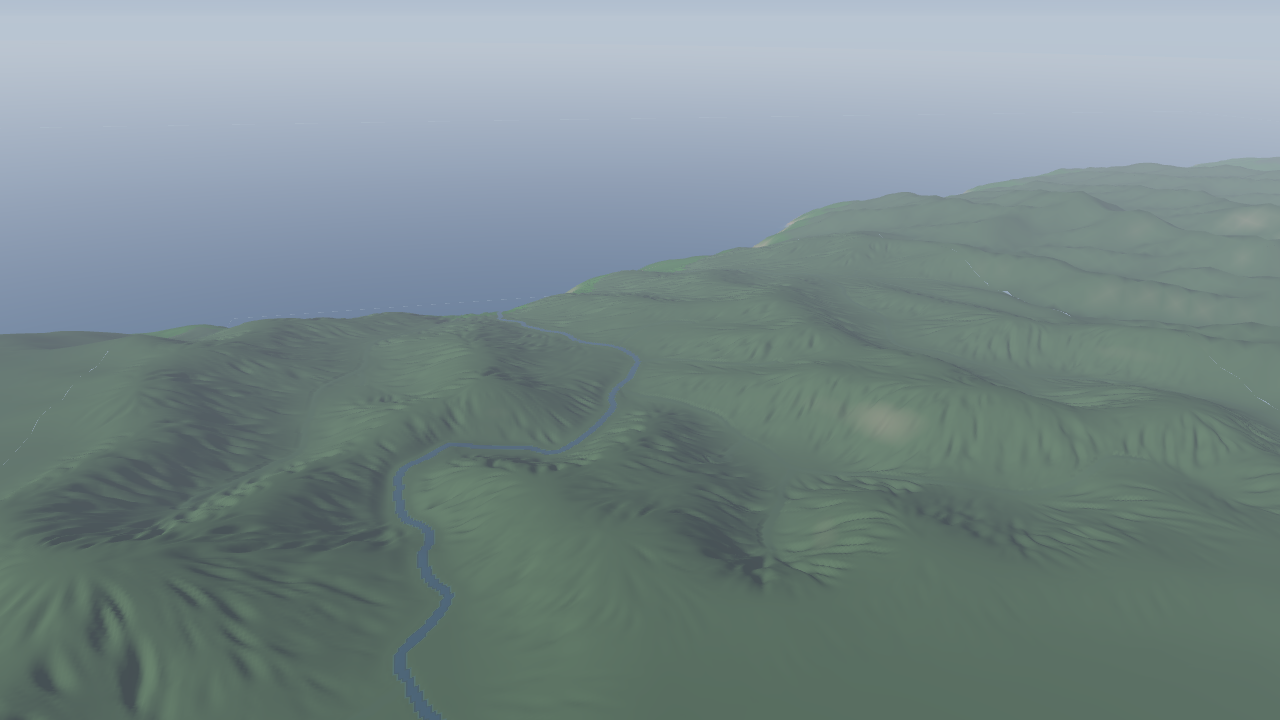
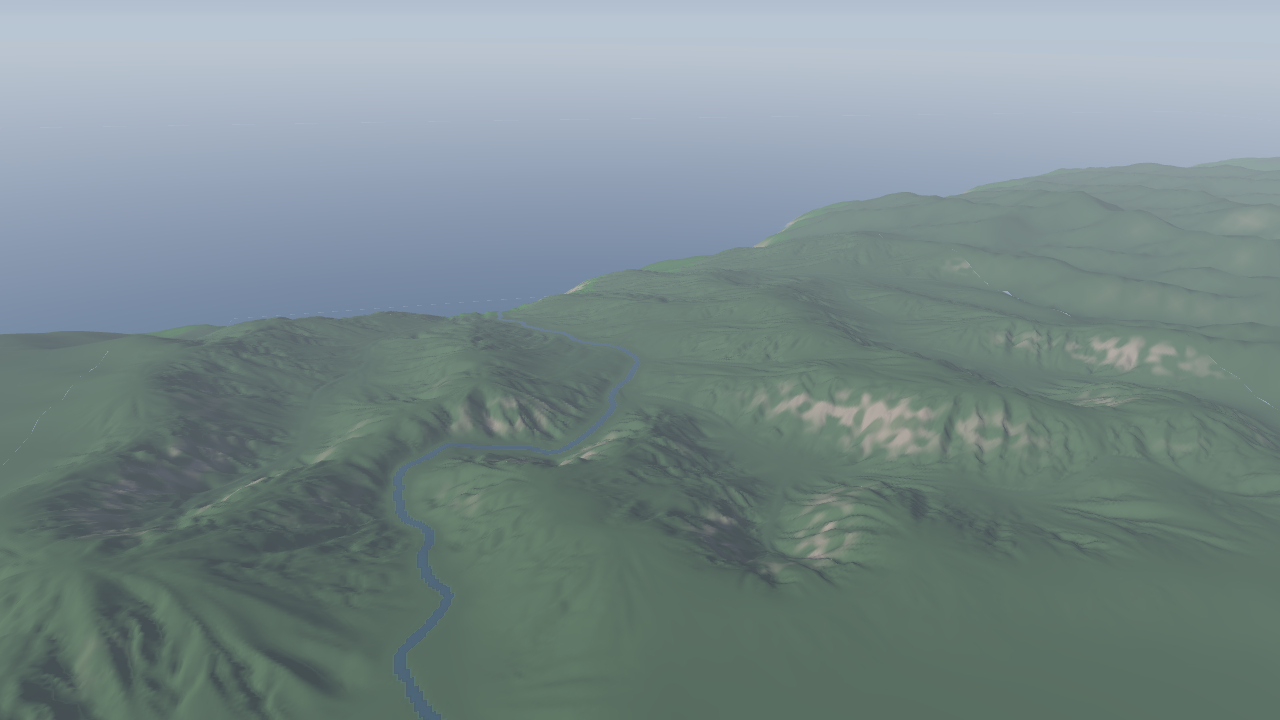
terrain: dendritic gullies and rock in the near field; preview shadows
- detail: first gully octave at the parent cell size, longer troughs in a
  7x7 tapered window, finer troughs steered into coarser ones (direction
  only); depth 0.11, decay 0.78. Rock patches with craggy relief on steep
  parent slopes; sample() returns rock (0..1), coloured in ladder
- preview: sun shadow map (2048, PCF, slope-scaled bias), shared terrain
  vertex code for both passes, shadows toggle
- tools/montage.mjs: tile PNGs into one comparison image
- HANDOFF/ROADMAP and review images updated

Claude-Session: https://claude.ai/code/session_01WZDQpZq5BWDRkKD3NpUL8x

diff --git a/planet-source/terrain/preview/index.html b/planet-source/terrain/preview/index.html
@@ -27,6 +27,7 @@
   <label>Vertical ×<input id="exag" type="range" min="1" max="4" step="0.1" value="1"><span id="exagV">1.0</span></label>
   <label>Sun azimuth<input id="sunAz" type="range" min="0" max="360" step="1" value="225"></label>
   <label>Sun elevation<input id="sunEl" type="range" min="2" max="80" step="1" value="32"></label>
+  <label>Shadows<input id="shadows" type="checkbox" checked></label>
   <label>Haze<input id="haze" type="range" min="0" max="3" step="0.05" value="1"></label>
   <div id="info"></div>
   <div style="margin-top:4px;color:#8c96a3">drag: orbit · right/shift-drag: pan · wheel: zoom · 1–6: presets · H: panel</div>

diff --git a/planet-source/terrain/HANDOFF.md b/planet-source/terrain/HANDOFF.md
@@ -1,6 +1,6 @@
 # 引き継ぎ: 地形コア（terrain/）
 
-更新: 2026-10-14（3回目: 山地の近景の溝ノイズを作り直し、エンジン向け書き出し、森林山地の地点）。次のインスタンスは、この文書と [ROADMAP.md](ROADMAP.md) から作業を始める。
+更新: 2026-10-14（4回目: 溝の樹状化と岩、プレビューの影、比較画像ツール）。次のインスタンスは、この文書と [ROADMAP.md](ROADMAP.md) から作業を始める。
 
 ## 1. 目的とユーザーの要望
 
@@ -35,12 +35,20 @@
 | 惑星 L0（N=512、約20km/セル） | プレート（ゆがめたボロノイ・オイラー極）、収束・発散境界による隆起、大陸棚・海溝・海嶺、緯度と内陸度による降水、侵食120ステップ | 良好。大陸、山脈、島弧、砂漠と森林の帯、氷床が出ている。`map-planet-1-N512.png` |
 | L1（400km、約781m/セル） | `amplifyRegion`: 親の低周波に合わせ直しながら侵食する | 良好。樹状の水系 |
 | L2（40km、約78m/セル） | 同上 | 良好。実際の山岳地帯の陰影図に近い。3Dでも開析された山地に見える（`view3d-mountain-L2.png`） |
-| L3（4km、約7.8m/セル） | `createNearField`: 計算式による近景 | **3回目で改善**。尾根が谷底まで溝で刻まれた山地に見えるようになった（`view3d-forest-mountain-L3.png`, `view3d-mountain-L3.png`）。残る問題: 真上から見ると溝が短い平行線の「毛並み」で、樹状に合流しない（`ladder-...-forest-mountain-L3.png`）。岩の露頭・崖はまだない |
-| L4（0.4km、約0.78m/セル） | 同上 | 急斜面のリル・溝・小尾根はそれらしい（`view3d-forest-mountain-L4.png`）。L3との詳細量の差が継ぎ目として見える |
+| L3（4km、約7.8m/セル） | `createNearField`: 計算式による近景 | **4回目で概ね良好**。真上から見て一次谷が合流する樹状の谷網になり、実際の山地のDEM陰影図に近い（`ladder-planet-1-N512-forest-mountain-L3.png`）。3Dでも航空機から見た山脈に見える（`view3d-forest-mountain-L3.png`、影付き）。急斜面に岩場がまだら状に出る |
+| L4（0.4km、約0.78m/セル） | 同上 | 谷壁に岩場と崖。谷壁に細かい鋸歯状の列が残る（`view3d-forest-mountain-L4.png`）。L3との詳細量の差が継ぎ目として見える |
 
 3Dプレビュー（T2最小版）: `preview/`（WebGL2）。L1〜L4を入れ子で表示し、曲率、太陽光と天空光、水面の反射、高さ依存のもや（空気遠近）を付けた。影はまだない。
 
 自動テストはまだない。検証は、縮尺比較の画像と3Dのスクリーンショットを目で確認する方法と、`tools/probe-seams.mjs`（近景ノイズの継ぎ目の数値検査）。
+
+### 4回目: 溝の樹状化と岩（`src/detail.mjs`）、影、比較ツール
+- **樹状化**: 最初のオクターブを親のセル幅（78m、従来は39m）から始め、谷を長く（長さ係数1.6、探索窓7×7セル、窓の端で重み0）、前のオクターブの谷の側壁の向きへ強く曲げる（`gullySteer = 2.5`、高さには効かず向きだけ）。細かい谷が太い谷へ流れ込む。これで起伏が増えすぎたため、深さ係数0.11、オクターブごとの減衰を0.78にした。
+- **岩**: 親の傾斜が0.4を超える所に、ゆるやかなノイズでまだらな岩場を置き、尾根状ノイズ（2乗、オクターブごとに平均を引く）で岩の凹凸を足す。`sample()` が `rock`（0〜1）を返し、色付けで岩色を混ぜる。
+- **結果**（残差RMS / 傾斜p90 / p99）: forest-mountain L3 1.99m / 0.84 / 1.19、L4 0.41m / 1.26 / 2.80。hills L3 1.46m / 0.68、L4 0.16m / 0.65。継ぎ目の検査は比1.0。
+- 試した案（`gullyScale`, `gullyLen`, `gullyWin`, `gullySteer` は引数で変えられる）: 窓と長さだけ（A）はまだ毛並み状。最初のオクターブを粗く（B）すると谷網になる。さらに向きを強く曲げる（C）と合流が良くなる。Cのまま深さを変えないと、L4の傾斜p99が4.9になり起伏が過大だった。
+- **プレビューの影**（Sonnetに委任）: 太陽方向の正射影シャドウマップ（2048²、3×3 PCF、傾斜に応じたバイアス）。直射光の項だけを影で減らす。頂点シェーダーの共通部分を1つの文字列にまとめ、影の描画と本描画がずれないようにした。URL `shadows=0|1` とチェックボックス。影の範囲は注視点の周りの視距離の1.5倍なので、低い太陽では遠くの影が切れることがある。
+- **`tools/montage.mjs`**（Haikuに委任）: 複数のPNGを格子状に並べて1枚にする（比較用）。`node terrain/tools/montage.mjs out.png 列数 a.png b.png ...`
 
 ### 3回目: 近景の溝ノイズの作り直し（`src/detail.mjs`）
 - **数値の診断**: 細かい起伏（5セル平均からの残差のRMS）が、L2の自己相似な外挿（L2の値×0.1^0.75〜0.85）に比べてL3で約4分の1しかなかった（forest-mountainでL2 17.0m → L3 0.62m、期待値は約2〜3m）。傾斜もL3のp99が0.53〜0.78で、実際の山地の8m DEMより緩い。
@@ -82,7 +90,8 @@ terrain/
   tools/serve.mjs         プレビュー用の静的サーバー（127.0.0.1:8787）
   tools/shoot-scene.mjs   ヘッドレスChromium（Playwright）でプレビューのスクリーンショットを撮る
   tools/probe-seams.mjs   近景ノイズのセル境界の段差を数値で検査する
-  tools/png.mjs           依存なしのPNG書き出し
+  tools/montage.mjs       PNGを格子状に並べて比較画像を作る
+  tools/png.mjs           依存なしのPNG書き出し（8bit RGBと16bitグレー）
   preview/index.html, viewer.mjs  WebGL2の3Dプレビュー
 ```
 
@@ -103,7 +112,7 @@ node terrain/tools/export-heightmap.mjs planet-1-N512-mountain             # エ
 - プレビューの操作: ドラッグで回転、右ドラッグ/Shift+ドラッグで移動、ホイールで拡大縮小、1〜6で視点プリセット（L1, L2, L3, L4, L3低視点, 地上）、Hでパネル。URL引数 `preset, exag, sunAz, sunEl, haze, ui=0`。
 - 入れ子の表示: 親は子の範囲を描かず、子は外周8%を親の高さと傾きに寄せ（geomorph）、外周にスカートを垂らす。カメラから各段の幅の2倍以上離れた段は描かない（細かい起伏のエイリアス防止）。
 - 2回目の作業はクラウドのLinuxコンテナ（Node 22.22、メモリ16GiB、開始前の空き約15GiB）で行った。Cドライブ・G:ドライブは存在しない環境。ピークメモリは未計測。重い処理は1つずつ実行した。起動したChromiumとサーバーは各実行の終わりに閉じた（残存プロセスなしを確認）。
-- 担当表のCodex/OpenCodeはこの環境で使えないため、2回目はグラフィックを含めすべて自分（Claude）で実装した。3回目はユーザーの指示で、簡単な実装をSonnet（16bit書き出し）とHaiku（地点の追加）に委任した。設計と近景の改良は自分で行った。
+- 担当表のCodex/OpenCodeはこの環境で使えないため、2回目はグラフィックを含めすべて自分（Claude）で実装した。3回目以降はユーザーの指示で、簡単な実装をSonnet（16bit書き出し、影）とHaiku（地点の追加、比較画像ツール）に委任した。設計と近景の改良は自分で行った。
 
 ## 6. 試して分かったこと（同じ失敗を繰り返さないために）
 
@@ -119,10 +128,11 @@ node terrain/tools/export-heightmap.mjs planet-1-N512-mountain             # エ
 
 ## 7. 次にやること（推奨順）
 
-1. **山地の近景の続き（T1）**: (a) 溝を樹状に合流させる（いまは短い平行線で、真上から見ると毛並み状）。案: 細かいオクターブの溝を、粗いオクターブの谷の軸へ向けて曲げる／L3を「刻むだけ」の短いシミュレーションで作る。(b) 岩の露頭・崖・崖錐: 親の傾斜が大きい所だけに尾根状ノイズを足し、色も最終的な傾斜で岩にする。評価は forest-mountain の p3, p4 と2DのL3。
-2. **プレビューの改善（T2の残り）**: 影、L3とL4の詳細量の差による継ぎ目、地上視点での川岸の鋸歯、Workerでのその場生成とタイルのストリーミング。
-3. **タイルの継ぎ目**: 立方体の面の座標でタイルのキーを決める（面・段階・i・j）。
-4. 海岸の細部、湖、氷河、雨陰（T1の残り）。その後T3（土地被覆）、T4（集落・道路）。
+1. **L4の仕上げとL3/L4の継ぎ目**: 谷壁の細かい鋸歯状の列（岩の凹凸か溝の交差と推定、未調査）、L4の範囲だけ詳細が多いことによる継ぎ目。プレビュー側で段の切り替えを距離に応じて混ぜる（モーフ）か、L3にもL4相当の詳細を法線として入れる。
+2. **岩の量の調整**: hillsの海岸の急斜面にも岩場が出る。気候（降水・植生）と組み合わせて決めるのはT3（土地被覆）で行う。
+3. **プレビュー（T2の残り）**: 影の範囲の段階化（カスケード）、地上視点での川岸の鋸歯、Workerでのその場生成とタイルのストリーミング。
+4. **タイルの継ぎ目**: 立方体の面の座標でタイルのキーを決める（面・段階・i・j）。
+5. 海岸の細部、湖、氷河、雨陰（T1の残り）。その後T3（土地被覆）、T4（集落・道路）。
 
 ## 8. リポジトリ外にあるもの
 

diff --git a/planet-source/terrain/ROADMAP.md b/planet-source/terrain/ROADMAP.md
@@ -33,7 +33,8 @@
 **残り**
 - **山地の近景**: 4km程度の縮尺で、岩の露頭・崖錐・雪渓の細部が足りず、ぼやけて見える。3D表示では、規則的な溝ノイズが波紋・砂丘のように見えることも分かった。
   - 済（3回目）: 溝ノイズを「特徴点ごとのV字の谷」に作り直し、細かい起伏の量をL2からの自己相似な外挿に合わせた。3Dで山地らしく見える。
-  - 残り: 溝の樹状の合流、岩の露頭・崖。急斜面にだけ尾根状のノイズで岩を加えるか、L3を「刻むだけ」のシミュレーションでタイル生成する案を比べる。上から見た陰影図は粗が目立ちやすいので、評価はT2の3D表示で行う。
+  - 済（4回目）: 溝の樹状の合流（粗いオクターブから始め、細かい谷を太い谷へ曲げる）、急斜面の岩場と岩の凹凸。
+  - 残り: L4の谷壁の細かい鋸歯、L3/L4の継ぎ目、岩の量を気候と合わせる（T3）。急斜面にだけ尾根状のノイズで岩を加えるか、L3を「刻むだけ」のシミュレーションでタイル生成する案を比べる。上から見た陰影図は粗が目立ちやすいので、評価はT2の3D表示で行う。
 - **隣接タイルの継ぎ目**: 立方体の面の座標でタイルのキーを決め、重なり部分を混合する。面の境界でも正しく標本化する。
 - 海岸の細部、湖（氷河湖・構造湖）、氷河地形、卓越風と雨陰。
 - 受け入れ条件: 平野・丘陵・山地・海岸・乾燥地の5地点で縮尺比較を行い、実際の地形と比べて大きな違和感がないこと。
@@ -43,7 +44,8 @@
 この3D表示で、惑星の湖の異常（侵食のイプシロン）、近景ノイズの格子状の段差、細い川の点線化を見つけて直した（HANDOFF §3）。
 
 **残り**
-- 影、段の間の詳細量の差による継ぎ目。
+- 影: 済（4回目、単一のシャドウマップ）。残りはカスケード化。
+- 段の間の詳細量の差による継ぎ目。
 - 立方体球の四分木タイルを、Workerでその場生成してストリーミングする（WebGL2）。
 - 法線による陰影、大気散乱、空気遠近。縮尺比較用のカメラプリセット。
 - エンジン向けの書き出し（16bit高さとメタJSON）。済（3回目、`tools/export-heightmap.mjs`）。描画の判断は、担当表に従いGUI・グラフィック担当へ渡す。
